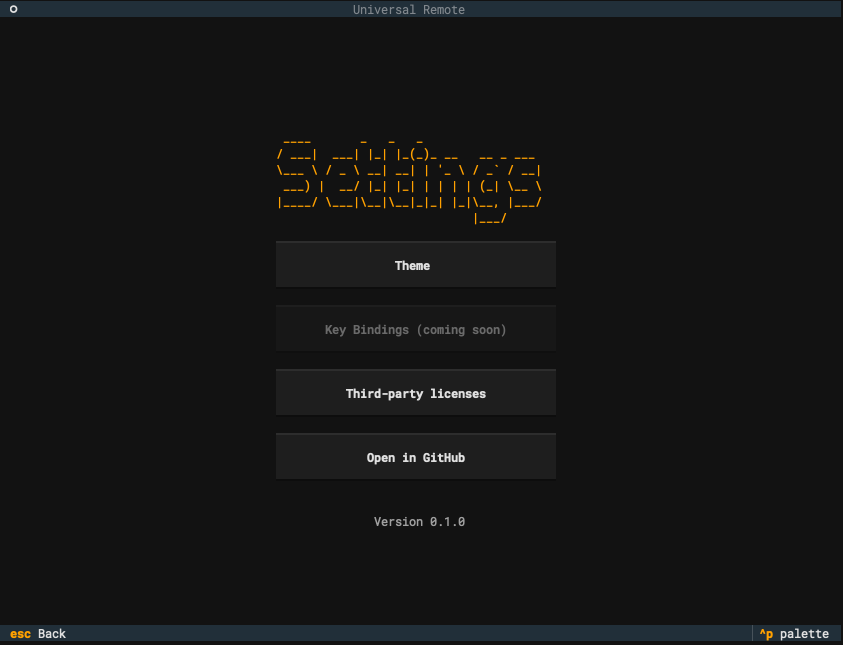
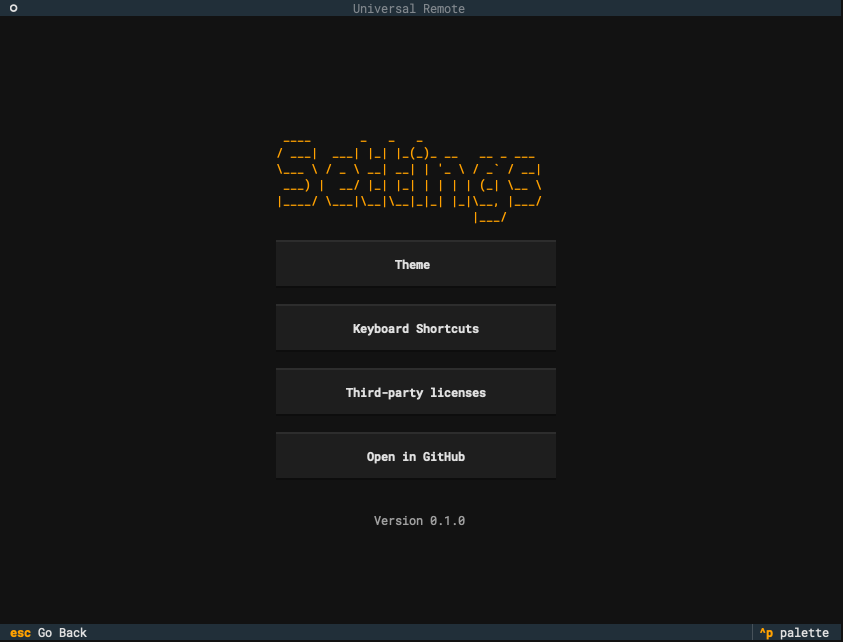
docs(readme): document keyboard shortcuts screen and refresh screenshots
Correct the stale Keyboard Shortcuts settings bullet (capture modal, any
key incl. Esc becomes the shortcut, mouse-only Delete/Cancel, app-wide
uniqueness, Tab/Shift+Tab reserved), add the shortcuts screen and palette
cheat-sheet screenshots, and replace the outdated settings screenshot.

diff --git a/README.md b/README.md
@@ -151,16 +151,25 @@ returns to the menu:
 - **Theme** — opens the built-in theme picker (the same one the command palette
   offers). The pick applies instantly and is **remembered across runs**, whether
   you change it here or from the palette.
-- **Keyboard Shortcuts** — opens a screen listing every action and its shortcut.
-  Press Enter on a row to capture a new key (Delete clears it, Esc cancels);
-  conflicts and reserved keys (the D-pad, Enter, `Ctrl+P`) are refused with a
-  toast. Changes apply immediately and are **remembered across runs**.
+- **Keyboard Shortcuts** — opens a screen listing every action and its shortcut,
+  grouped under **Home / Global / Remote** headings. Press Enter on a row to open
+  the capture modal, then press the key you want — **any key becomes the shortcut,
+  Esc included**; the mouse-only **Delete** and **Cancel** buttons clear it or back
+  out. Every shortcut is unique app-wide: a key already taken by another action, or
+  a reserved key, is refused with a toast and nothing changes. Reserved keys — the
+  D-pad, Enter, `Ctrl+P`, and `Tab`/`Shift+Tab` — show as dimmed rows so you can
+  see they're in use but fixed. Changes apply immediately and are **remembered
+  across runs**.
 - **Third-party licenses** — opens the generated
   [`THIRD_PARTY_LICENSES.md`](THIRD_PARTY_LICENSES.md) on GitHub in your browser.
 - **Open in GitHub** — opens the project repository in your browser.
 - **Version** — shows the installed app version (a non-interactive label).
 
 ![Settings](docs/screenshots/settings.png)
+
+The Keyboard Shortcuts screen itself:
+
+![Keyboard Shortcuts](docs/screenshots/shortcuts.png)
 
 ### Keyboard tricks & other niceties
 
@@ -169,7 +178,11 @@ returns to the menu:
 - **Number shortcuts.** In any device list, press a device's number (`1`–`9`) to
   jump straight to it.
 - **Command palette.** `Ctrl+P` opens a fuzzy command palette (shown as
-  `^p palette` in the footer) for everything the current screen offers.
+  `^p palette` in the footer) for everything the current screen offers — including
+  a **Keyboard Shortcuts** entry that pops a read-only cheat sheet of every binding
+  from any screen.
+
+  ![Shortcuts cheat sheet from the command palette](docs/screenshots/shortcuts-palette.png)
 - **Customizable shortcuts.** Rebind the menu, remote, and Go Back keys — and
   assign the on-screen-only remote buttons a key — from **Settings → Keyboard
   Shortcuts**. Your choices are remembered across runs.

diff --git a/openspec/changes/add-custom-keyboard-shortcuts/tasks.md b/openspec/changes/add-custom-keyboard-shortcuts/tasks.md
@@ -44,7 +44,7 @@
 ## 7. Docs + preflight
 
 - [x] 7.1 Update `README.md` and any key-binding docs to mention customizable shortcuts and the Settings entry.
-- [ ] 7.2 Refresh the Settings screenshot if the row label changed; add a Keyboard Shortcuts screenshot.
+- [x] 7.2 Refresh the Settings screenshot if the row label changed; add a Keyboard Shortcuts screenshot.
 - [x] 7.3 Run formatter, linter, and the full test suite; fix any failures.
 - [ ] 7.4 Manually exercise: open Shortcuts from Settings, assign a formerly-unbound remote key and confirm it works live, hit a conflict and a reserved key (toast shown), clear a shortcut, restart and confirm persistence.
 